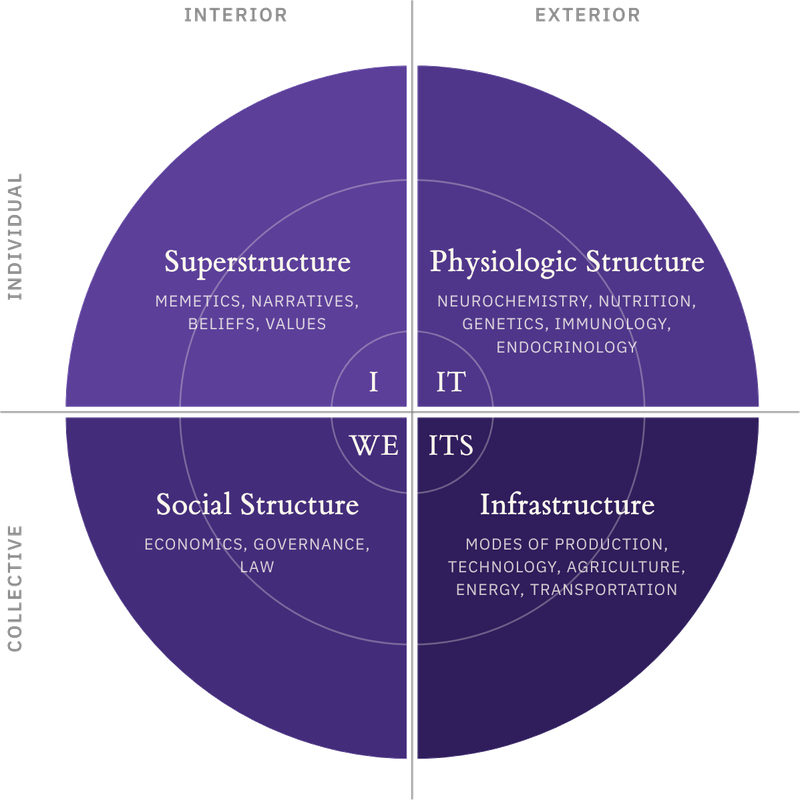
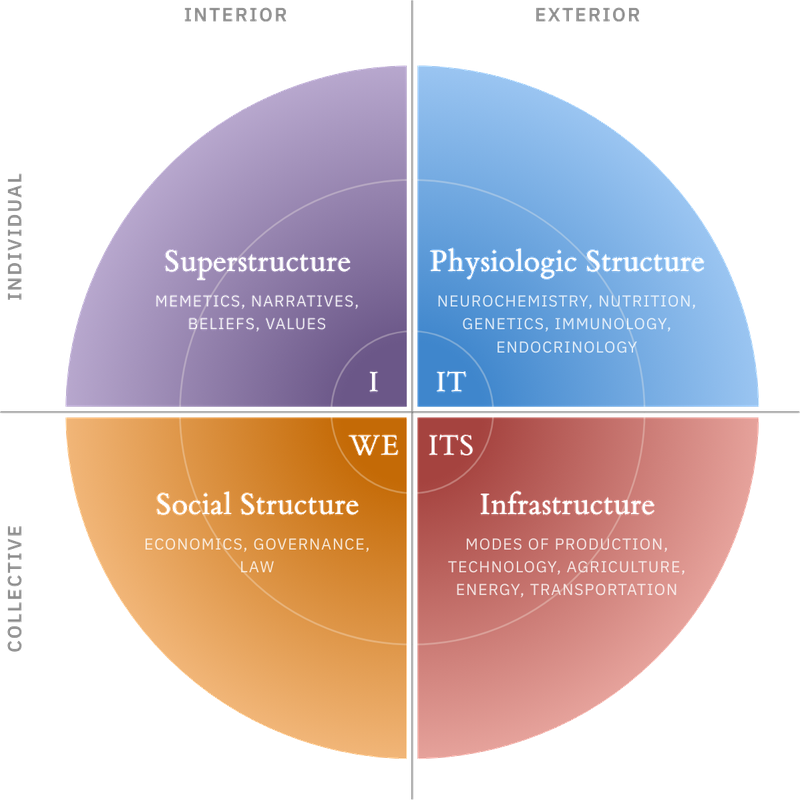
Models cards and CEM page 1 in the new colours: the Emergence Model in its original colours, Cultural Materialism and Base-Superstructure (and the CEM and Exo-Endo cards) in the CEM's
Claude-Session: https://claude.ai/code/session_01LgHoU9QwZ5ZurXZhgzwbWe

diff --git a/diagram/index.html b/diagram/index.html
@@ -5313,16 +5313,23 @@
       function ovThumb(key) {
         var g = '';
         if (key === 'stack') [[130, 128, 13], [116, 94, 13], [100, 64, 13], [84, 38, 13]].forEach(function (s) { g += ovSlab(150, s[1], s[0], s[2]); });
-        if (key === 'structures') [[150, 120], [124, 86], [98, 56]].forEach(function (s) { g += ovSlab(150, s[1], s[0], 13); });
-        if (key === 'marx') [[150, 106], [118, 64]].forEach(function (s) { g += ovSlab(150, s[1], s[0], 18); });
+        // a slab in one of the Complex Emergence Model's colours
+        var cemSlab = function (c, x, y, w, h) {
+          return '<g style="--top:color-mix(in srgb, ' + c + ' 85%, #fff);--left:' + c + ';--right:color-mix(in srgb, ' + c + ' 64%, #000)">' + ovSlab(x, y, w, h) + '</g>';
+        };
+        var MIDNIGHT = '#1f2f8a', GOLD = '#d9a520', VIOLET = '#6a3fc4';
+        if (key === 'structures') [[150, 120, MIDNIGHT], [124, 86, GOLD], [98, 56, VIOLET]].forEach(function (s) { g += cemSlab(s[2], 150, s[1], s[0], 11); });
+        if (key === 'marx') [[150, 106, GOLD], [118, 64, VIOLET]].forEach(function (s) { g += cemSlab(s[2], 150, s[1], s[0], 15); });
         if (key === 'complex') {
           // the stack: the ecostructure and biostructure beneath, the core
           // on them, the axis of the metastructure through them all
-          [['#4e8a5a', 150, 132, 9], ['#a35a6a', 120, 110, 9], ['--q1', 74, 86, 12], ['--q1', 74, 62, 12], ['--q1', 74, 38, 12]].forEach(function (k) {
-            var c = k[0].charAt(0) === '-' ? 'var(' + k[0] + ')' : 'color-mix(in srgb, ' + k[0] + ' 85%, #fff)';
-            g += '<g style="--top:' + c + ';--left:color-mix(in srgb, ' + c + ' 78%, #000);--right:color-mix(in srgb, ' + c + ' 60%, #000)">' + ovSlab(150, k[2], k[1], k[3]) + '</g>';
+          // (the cosmostructure, ecostructure and biostructure beneath, then
+          // the infrastructure, interstructure and superstructure, in the
+          // colours of the Complex Emergence Model page)
+          [['#3b55a0', 154, 130, 7], ['#3f9e55', 132, 115, 7], ['#c2526b', 110, 101, 7], [MIDNIGHT, 70, 80, 10], [GOLD, 70, 61, 10], [VIOLET, 70, 42, 10]].forEach(function (k) {
+            g += cemSlab(k[0], 150, k[2], k[1], k[3]);
           });
-          g += '<path class="ln" stroke-dasharray="2 4" d="M150 20V30"/><circle cx="150" cy="16" r="5" fill="none" stroke="var(--muted)" stroke-width="1.2"/>';
+          g += '<path class="ln" stroke-dasharray="2 4" d="M150 18V24"/><circle cx="150" cy="13" r="5" fill="none" stroke="var(--muted)" stroke-width="1.2"/>';
         }
         if (key === 'exoendo') {
           // human agency at the centre, the membrane around it, and the
@@ -5331,11 +5338,13 @@
           g += '<circle cx="150" cy="90" r="15" fill="var(--q1)"/>';
           for (var k = 0; k < 8; k++) {
             var t = (-90 + 22.5 + k * 45) * Math.PI / 180, cx = 150 + 64 * Math.cos(t), cy = 90 + 64 * Math.sin(t), ix = 150 + 27 * Math.cos(t), iy = 90 + 27 * Math.sin(t);
-            var col = ['#6b6b78', '#6b6b78', '#4e8a5a', '#a35a6a', '#a35a6a', 'var(--q1)', 'var(--q1)', 'var(--q1)'][k];
+            var col = ['#6b6b78', '#6b6b78', '#3f9e55', '#c2526b', '#c2526b', MIDNIGHT, GOLD, VIOLET][k];
             g += '<circle cx="' + cx.toFixed(1) + '" cy="' + cy.toFixed(1) + '" r="8" fill="' + col + '"/><circle cx="' + ix.toFixed(1) + '" cy="' + iy.toFixed(1) + '" r="3.5" fill="' + col + '" opacity="0.45"/>';
           }
         }
         if (key === 'emergence') {
+          // (in the original's colours: lavender, blue, orange and red)
+          g += '<g style="--q1:#8a74ac;--q2:#5d9be0;--q3:#de8a2a;--q4:#c0605b">';
           // a tilted disc, split into its four quadrants, with its front edge
           var ex = 150, ey = 80, rx = 82, ry = 41, eh = 16;
           var ep = function (deg) { var a = deg * Math.PI / 180; return (ex + rx * Math.cos(a)).toFixed(1) + ' ' + (ey + ry * Math.sin(a)).toFixed(1); };
@@ -5347,6 +5356,7 @@
             g += '<path style="fill:var(' + w[0] + ')" stroke="var(--canvas-bg)" stroke-width="2.5" stroke-linejoin="round" d="M' + ex + ' ' + ey + 'L' + ep(w[1]) + 'A' + rx + ' ' + ry + ' 0 0 1 ' + ep(w[1] + 90) + 'Z"/>';
           });
           g += '<ellipse cx="' + ex + '" cy="' + ey + '" rx="' + (rx * 0.62) + '" ry="' + (ry * 0.62) + '" fill="none" stroke="#fff" stroke-opacity="0.3"/>';
+          g += '</g>';
         }
         if (key === 'integral') {
           // four tiles on an isometric plane, each with its own thickness

diff --git a/model/index.html b/model/index.html
@@ -1400,7 +1400,7 @@
   <div class="md-corners">
     <a class="md-corner md-corner-bl md-corner-small" href="../diagram/#structures" aria-label="Cultural Materialism: Three Structures"><img src="../assets/models/cultural-materialism.png?v=fa7afe8f" alt="" width="708" decoding="async"><span class="md-corner-label">Cultural Materialism: Three Structures</span></a>
     <a class="md-corner md-corner-top" href="../diagram/#four-quadrants" aria-label="Integral Model: Four Quadrants"><img src="../assets/models/integral.png?v=49a60a9f" alt="" width="800" decoding="async"><span class="md-corner-label">Integral Model: Four Quadrants</span></a>
-    <a class="md-corner md-corner-br" href="../diagram/#emergence-model" aria-label="The Emergence Model"><img src="../assets/models/emergence.png?v=cc3bff35" alt="" width="800" decoding="async"><span class="md-corner-label">The Emergence Model</span></a>
+    <a class="md-corner md-corner-br" href="../diagram/#emergence-model" aria-label="The Emergence Model"><img src="../assets/models/emergence.png?v=db003d34" alt="" width="800" decoding="async"><span class="md-corner-label">The Emergence Model</span></a>
   </div>
   <a class="back-arrow" href="../" aria-label="Back to the article" data-direct>
     <svg viewBox="0 0 26 20" fill="none" stroke="currentColor" stroke-width="1.8" stroke-linecap="butt" stroke-linejoin="miter">
